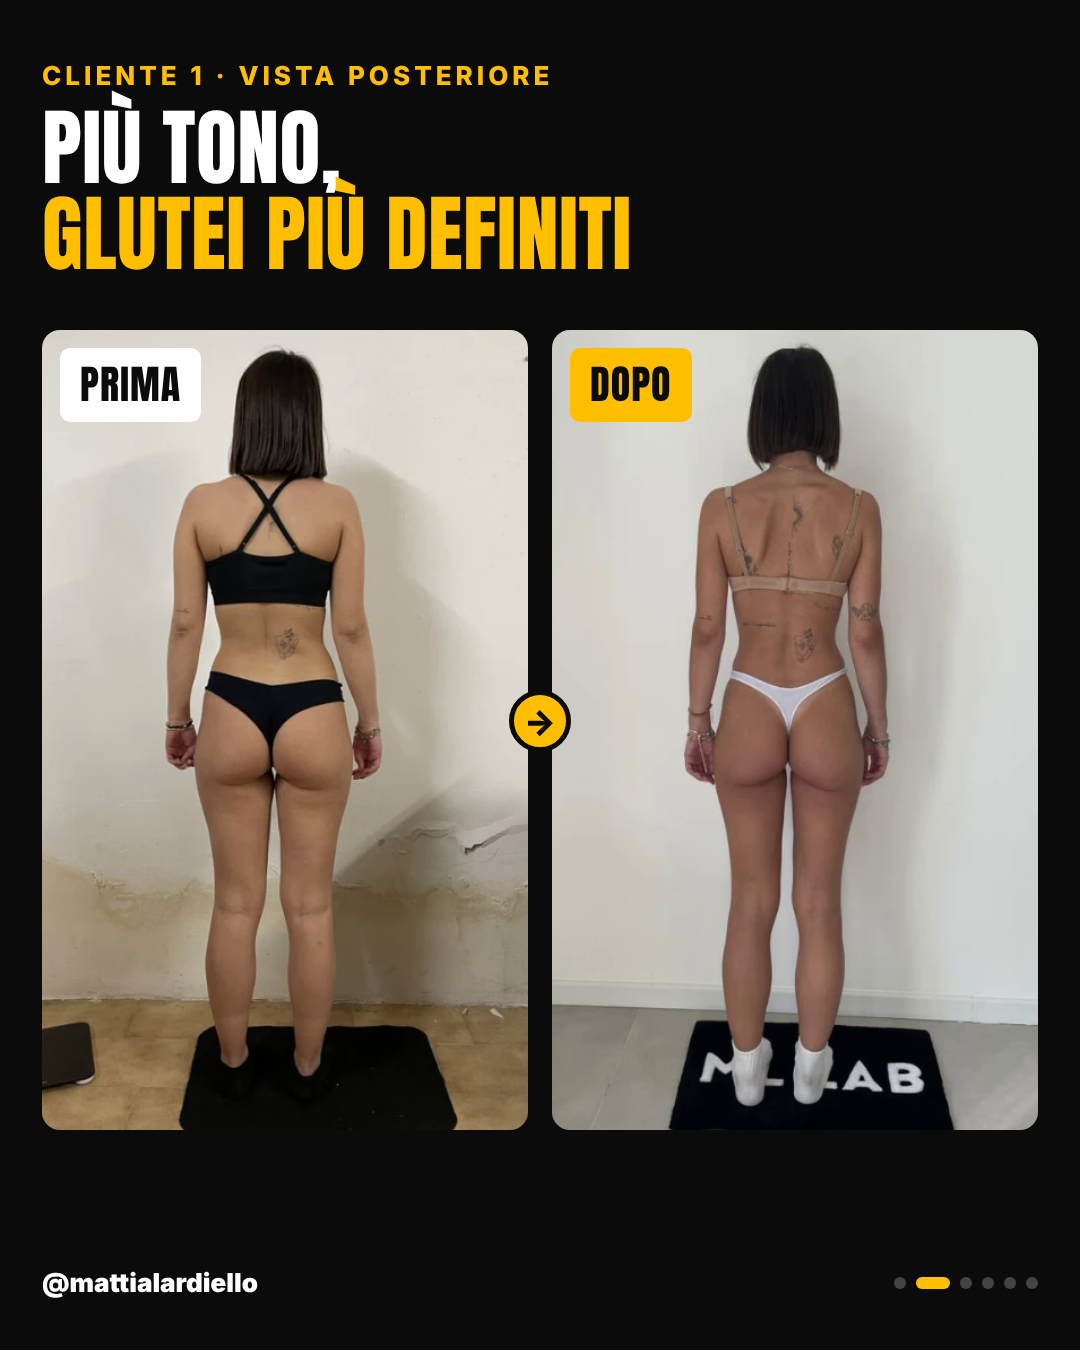
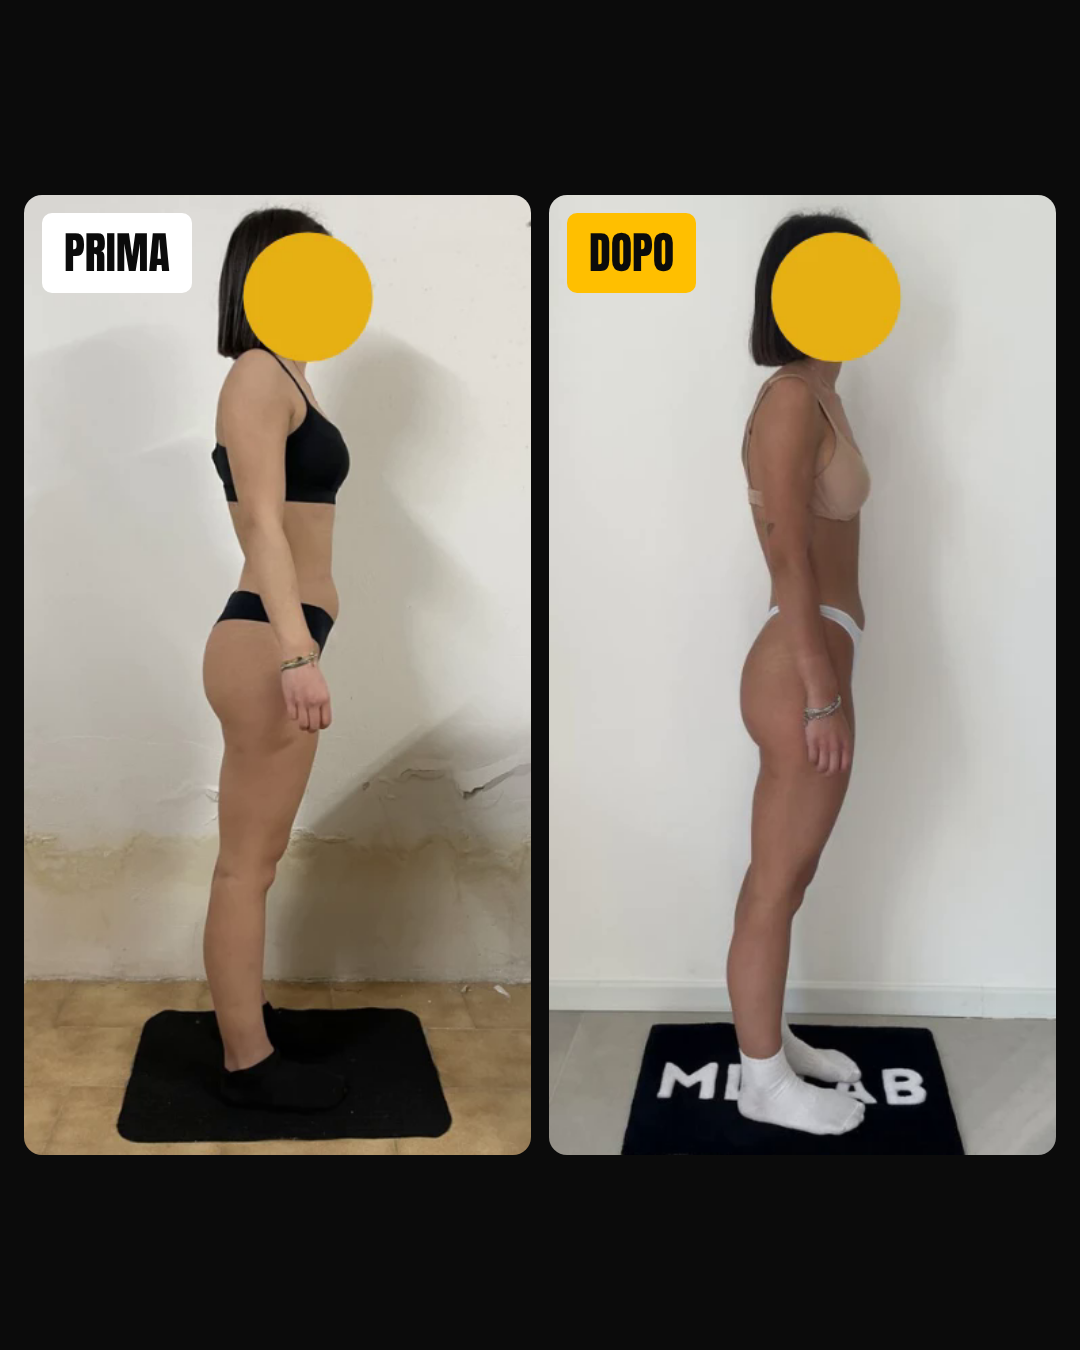
Prima e dopo: solo foto, senza scritte
Claude-Session: https://claude.ai/code/session_014pNAwoV69TZpDWEUzr7pF6

diff --git a/contenuti-instagram/README.md b/contenuti-instagram/README.md
@@ -13,7 +13,7 @@ Ogni contenuto è registrato anche nell'app **ML LAB Contenuti**, con lo stato e
 | 06 | Copertine storie in evidenza | 3 immagini | [06-copertine-storie](06-copertine-storie) |
 | 07 | Hip thrust: "spingi col tallone" | Reel (3 versioni audio + grafiche HyperFrames) | [07-hip-thrust-tallone](07-hip-thrust-tallone) |
 | 08 | Affondo bulgaro: "il ginocchio non deve superare la punta" | Reel | [08-affondo-bulgaro](08-affondo-bulgaro) |
-| 09 | Prima e dopo: 3 clienti | Carosello 6 slide | [09-prima-dopo](09-prima-dopo) |
+| 09 | Prima e dopo: 3 clienti | Carosello 4 slide | [09-prima-dopo](09-prima-dopo) |
 
 ---
 
@@ -126,7 +126,7 @@ Ricorda: consenso scritto di Irene prima di pubblicare.
 > #affondobulgaro #bulgariansplitsquat #splitsquat #glutei #allenamentoglutei #tecnicaesercizi #mitifitness #personaltrainerverona #mllab
 
 ## 09 · Prima e dopo: 3 clienti
-- `prima-dopo-1.png` … `prima-dopo-6.png`: copertina, 4 confronti, CTA consulenza (1080×1350).
+- `prima-dopo-1.png` … `prima-dopo-4.png`: solo i 4 confronti prima/dopo, senza scritte (1080×1350).
 
 > 3 clienti. 3 punti di partenza diversi. Nessuna scheda uguale. 👇
 > Non esiste il programma "giusto" in generale: esiste quello costruito sul tuo corpo, sulla tua storia e sui tuoi obiettivi.
